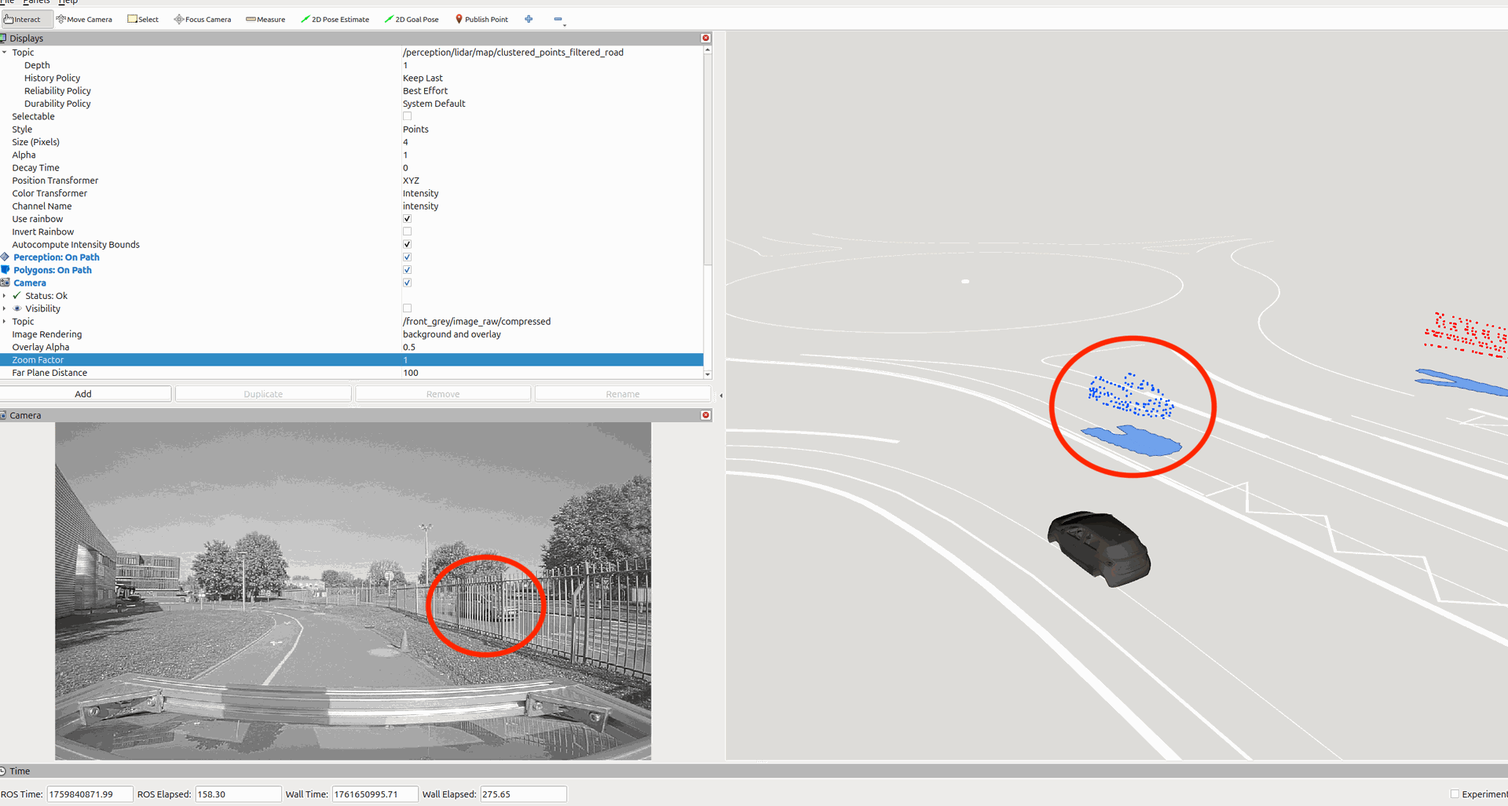
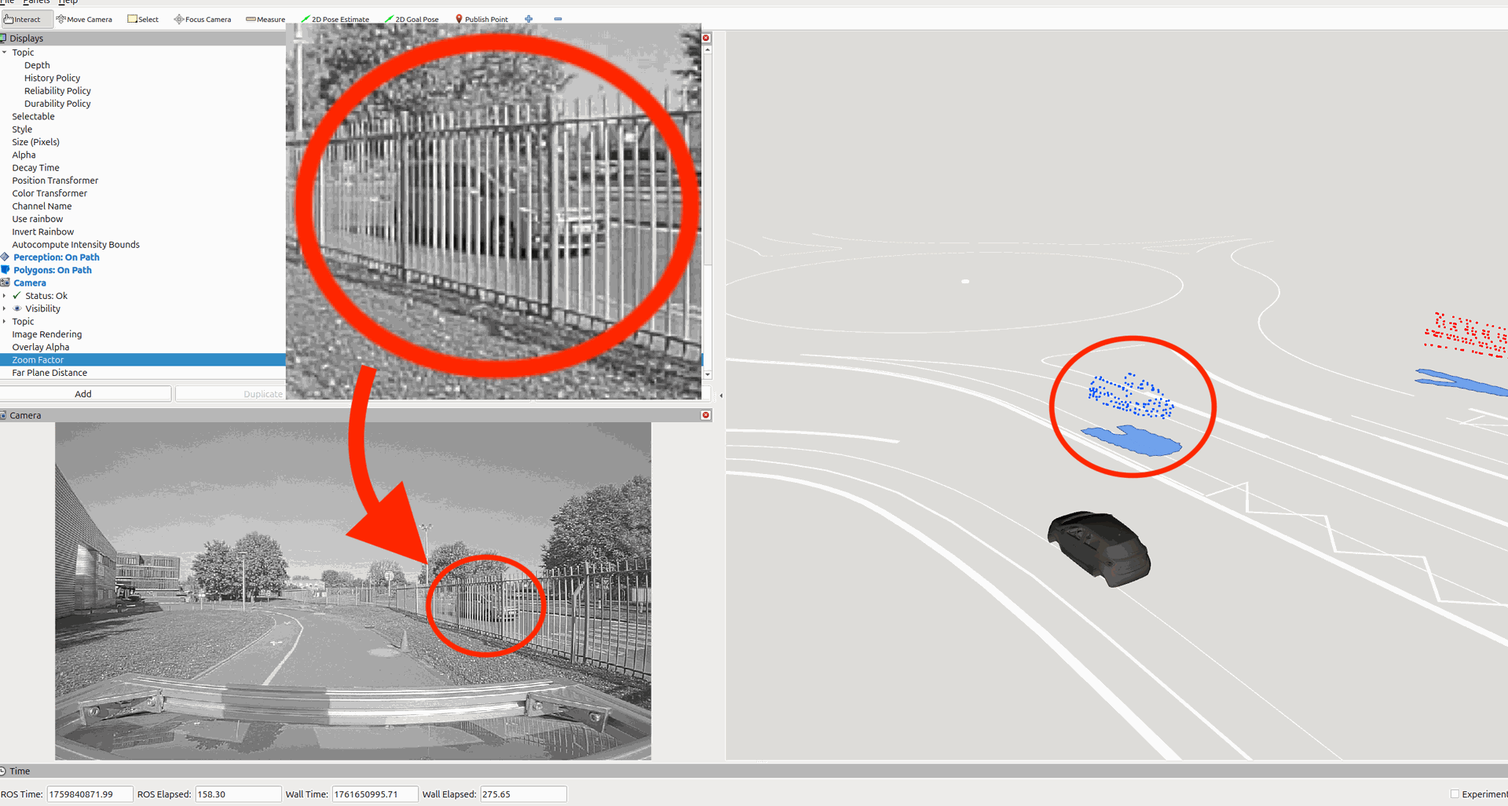
deploy: dec1e0b741afa52eaa4217c52247f01eb987975c

Changed region(s): [[0.1875, 0.0312, 0.4688, 0.7167]]

diff --git a/projects/project_human-prediction/index.html b/projects/project_human-prediction/index.html
@@ -20,9 +20,9 @@
 I = \{x_0, x_1, ..., x_n\}
 \quad \text{Eq (1)} $$</div></div></blockquote><p>Here, $(x_i) = (v_i, w_i)$ denotes the state at time $i$, where $v_i$ is the linear velocity and $w_i$ is the angular velocity.</p><figure id=fig-1><img src=https://pouceheure.github.io/blog/images/human-prediction/scheme-human_profile_prediction.drawio.png alt width=500><figcaption>Fig. 1 - Goal of the project.</figcaption></figure><p>The prediction model, $H_\Theta$, aims to produce:</p><blockquote><div class=equation-scroll-wrapper><div class=equation-block>$$
 H_\Theta(X) = \{\hat{y}_{t+1},...,\hat{y}_{t+k}\}
-\quad \text{Eq (2)} $$</div></div></blockquote><p>where</p><ul><li>$ \Theta $ are the model parameters, $ X $ is the input vector at time $ t $</li><li>$ \hat{y}_{t+i} $ is the predicted state</li><li>$ (v_{t+i}, w_{t+i}) $ are the predicted velocities</li><li>$ dt $ is the acquisition interval in seconds.</li></ul><h2 id=data-and-model>Data and Model</h2><h3 id=data-categories>Data Categories</h3><p>Input data are grouped into three categories:</p><ul><li><strong>Vehicle state</strong>: velocities, accelerations, and other dynamics.</li><li><strong>Environment state</strong>: map and Lidar data.</li><li><strong>Control state</strong>: steering angle, pedal positions.</li></ul><figure id=fig-2><img src=https://pouceheure.github.io/blog/images/human-prediction/scheme-data.drawio.png alt width=500><figcaption>Fig. 2 - Data input.</figcaption></figure><h3 id=driving-scenarios>Driving Scenarios</h3><p>Behavior varies across scenarios such as highways, city streets, and roundabouts. The dataset includes both <strong>structured</strong> (lane-marked roads) and <strong>unstructured</strong> (urban intersections, roundabouts) environments to prevent bias.</p><figure id=fig-3><img src=https://pouceheure.github.io/blog/images/human-prediction/scheme-dataset_diversification.drawio.png alt width=500><figcaption>Fig. 3 - Scenario categories.</figcaption></figure><h3 id=temporal-aspects>Temporal Aspects</h3><p>No manual labeling was required; future velocities served as output targets. The sensor acquisition rate is $dt = 100ms$ (10 Hz). A <strong>sliding window</strong> over past states captures temporal dependencies, and <strong>data augmentation</strong> (time warping, resampling) improves generalization.</p><h3 id=multi-modal-model>Multi-Modal Model</h3><p>The model consists of:</p><ol><li><strong>Input model</strong>: compresses each modality into a latent vector.</li><li><strong>Final model</strong>: concatenates latent vectors and applies a recurrent network.</li></ol><figure id=fig-4><img src=https://pouceheure.github.io/blog/images/human-prediction/scheme-data_unbalance_old.drawio.png alt width=500><figcaption>Fig. 4 - Handling unbalanced data representation.</figcaption></figure><p>The <strong>input model</strong> uses:</p><ul><li><strong>CNNs</strong> for image-based features (camera, Lidar projections).</li><li><strong>Fully connected layers</strong> for numerical data.</li></ul><p>The <strong>final model</strong> uses <strong>GRUs</strong> for sequence prediction.</p><figure id=fig-5><img src=https://pouceheure.github.io/blog/images/human-prediction/scheme-models_architecture.drawio.png alt width=800><figcaption>Fig. 5 - Overall model architecture.</figcaption></figure><h2 id=results>Results</h2><h3 id=test-characteristics>Test Characteristics</h3><div class=table-responsive><table><thead><tr><th>Test Name</th><th>Roundabouts</th><th>Intersections</th><th>Speed Limit</th><th>Distance</th><th>Time Record</th><th>Lanes</th></tr></thead><tbody><tr><td>roundabout</td><td>6</td><td>1</td><td>70 km/h</td><td>4 km</td><td>378 s</td><td>2</td></tr><tr><td>city</td><td>4</td><td>7</td><td>50 km/h</td><td>4 km</td><td>519 s</td><td>1</td></tr><tr><td>speed (1 lane)</td><td>2</td><td>0</td><td>70 km/h</td><td>2 km</td><td>116 s</td><td>1</td></tr><tr><td>speed (2 lanes)</td><td>0</td><td>0</td><td>90 km/h</td><td>2 km</td><td>84 s</td><td>2</td></tr></tbody></table></div><p>The following projections compare predicted and actual trajectories for different scenarios.</p><div class="row justify-content-center"><div class="col-md-3 col-sm-6 col-12 text-center"><figure id=fig-6.1><img src=https://pouceheure.github.io/blog/images/human-prediction/projection-prediction-test-1-lane.drawio.png alt="Test 1 Lane" class=img-fluid><figcaption class=text-muted>Fig. 6.1 - Test 1 Lane</figcaption></figure></div><div class="col-md-3 col-sm-6 col-12 text-center"><figure id=fig-6.2><img src=https://pouceheure.github.io/blog/images/human-prediction/projection-prediction-test-2-lane.drawio.png alt=" Test 2 Lanes" class=img-fluid><figcaption class=text-muted>Fig. 6.2 - Test 2 Lanes</figcaption></figure></div><div class="col-md-3 col-sm-6 col-12 text-center"><figure id=fig-6.3><img src=https://pouceheure.github.io/blog/images/human-prediction/projection-prediction-test-city.drawio.png alt=" Test City" class=img-fluid><figcaption class=text-muted>Fig. 6.3 - Test City</figcaption></figure></div><div class="col-md-3 col-sm-6 col-12 text-center"><figure id=fig-6.4><img src=https://pouceheure.github.io/blog/images/human-prediction/projection-prediction-test-roundabout.drawio.png alt=" Test Roundabout" class=img-fluid><figcaption class=text-muted>Fig. 6.4 - Test Roundabout</figcaption></figure></div></div><figure id=fig-7><img src=https://pouceheure.github.io/blog/images/human-prediction/results_mean.png alt width=500><figcaption>Fig. 7 - Mean errors.</figcaption></figure><p>The error function is:</p><blockquote><div class=equation-scroll-wrapper><div class=equation-block>$$
+\quad \text{Eq (2)} $$</div></div></blockquote><p>where</p><ul><li>$ \Theta $ are the model parameters, $ X $ is the input vector at time $ t $</li><li>$ \hat{y}_{t+i} $ is the predicted state</li><li>$ (v_{t+i}, w_{t+i}) $ are the predicted velocities</li><li>$ dt $ is the acquisition interval in seconds.</li></ul><h2 id=data-and-model>Data and Model</h2><h3 id=data-categories>Data Categories</h3><p>Input data are grouped into three categories:</p><ul><li><strong>Vehicle state</strong>: velocities, accelerations, and other dynamics.</li><li><strong>Environment state</strong>: map and Lidar data.</li><li><strong>Control state</strong>: steering angle, pedal positions.</li></ul><figure id=fig-2><img src=https://pouceheure.github.io/blog/images/human-prediction/scheme-data.drawio.png alt width=500><figcaption>Fig. 2 - Data input.</figcaption></figure><h3 id=driving-scenarios>Driving Scenarios</h3><p>Behavior varies across scenarios such as highways, city streets, and roundabouts. The dataset includes both <strong>structured</strong> (lane-marked roads) and <strong>unstructured</strong> (urban intersections, roundabouts) environments to prevent bias.</p><figure id=fig-3><img src=https://pouceheure.github.io/blog/images/human-prediction/scheme-dataset_diversification.drawio.png alt width=500><figcaption>Fig. 3 - Scenario categories.</figcaption></figure><h3 id=temporal-aspects>Temporal Aspects</h3><p>No manual labeling was required; future velocities served as output targets. The sensor acquisition rate is $dt = 100ms$ (10 Hz). A <strong>sliding window</strong> over past states captures temporal dependencies, and <strong>data augmentation</strong> (time warping, resampling) improves generalization.</p><h3 id=multi-modal-model>Multi-Modal Model</h3><p>The model consists of:</p><ol><li><strong>Input model</strong>: compresses each modality into a latent vector.</li><li><strong>Final model</strong>: concatenates latent vectors and applies a recurrent network.</li></ol><figure id=fig-4><img src=https://pouceheure.github.io/blog/images/human-prediction/scheme-data_unbalance_old.drawio.png alt width=500><figcaption>Fig. 4 - Handling unbalanced data representation.</figcaption></figure><p>The <strong>input model</strong> uses:</p><ul><li><strong>CNNs</strong> for image-based features (camera, Lidar projections).</li><li><strong>Fully connected layers</strong> for numerical data.</li></ul><p>The <strong>final model</strong> uses <strong>GRUs</strong> for sequence prediction.</p><figure id=fig-5><img src=https://pouceheure.github.io/blog/images/human-prediction/scheme-models_architecture.drawio.png alt width=800><figcaption>Fig. 5 - Overall model architecture.</figcaption></figure><h2 id=results>Results</h2><h3 id=test-characteristics>Test Characteristics</h3><div class=table-responsive><table><thead><tr><th>Test Name</th><th>Roundabouts</th><th>Intersections</th><th>Speed Limit</th><th>Distance</th><th>Time Record</th><th>Lanes</th></tr></thead><tbody><tr><td>roundabout</td><td>6</td><td>1</td><td>70 km/h</td><td>4 km</td><td>378 s</td><td>2</td></tr><tr><td>city</td><td>4</td><td>7</td><td>50 km/h</td><td>4 km</td><td>519 s</td><td>1</td></tr><tr><td>speed (1 lane)</td><td>2</td><td>0</td><td>70 km/h</td><td>2 km</td><td>116 s</td><td>1</td></tr><tr><td>speed (2 lanes)</td><td>0</td><td>0</td><td>90 km/h</td><td>2 km</td><td>84 s</td><td>2</td></tr></tbody></table></div><p>The following projections compare predicted and actual trajectories for different scenarios.</p><div class="row justify-content-center"><div class="col-md-3 col-sm-6 col-12 text-center"><figure id=fig-1.1><img src=https://pouceheure.github.io/blog/images/human-prediction/projection-prediction-test-1-lane.drawio.png alt="Test 1 Lane" class=img-fluid><figcaption class=text-muted>Fig. 1.1 - Test 1 Lane</figcaption></figure></div><div class="col-md-3 col-sm-6 col-12 text-center"><figure id=fig-1.2><img src=https://pouceheure.github.io/blog/images/human-prediction/projection-prediction-test-2-lane.drawio.png alt=" Test 2 Lanes" class=img-fluid><figcaption class=text-muted>Fig. 1.2 - Test 2 Lanes</figcaption></figure></div><div class="col-md-3 col-sm-6 col-12 text-center"><figure id=fig-1.3><img src=https://pouceheure.github.io/blog/images/human-prediction/projection-prediction-test-city.drawio.png alt=" Test City" class=img-fluid><figcaption class=text-muted>Fig. 1.3 - Test City</figcaption></figure></div><div class="col-md-3 col-sm-6 col-12 text-center"><figure id=fig-1.4><img src=https://pouceheure.github.io/blog/images/human-prediction/projection-prediction-test-roundabout.drawio.png alt=" Test Roundabout" class=img-fluid><figcaption class=text-muted>Fig. 1.4 - Test Roundabout</figcaption></figure></div></div><figure id=fig-2><img src=https://pouceheure.github.io/blog/images/human-prediction/results_mean.png alt width=500><figcaption>Fig. 2 - Mean errors.</figcaption></figure><p>The error function is:</p><blockquote><div class=equation-scroll-wrapper><div class=equation-block>$$
 loss(y_{predict},y_{true}) = w_{v} \cdot \sum_{i=0}^{n} | y_{predict,v,i} - y_{true,v,i} | + w_{w} \cdot \sum_{i=0}^{n} | y_{predict,w,i} - y_{true,w,i} |
-\quad \text{Eq (3)} $$</div></div></blockquote><p>Where:</p><ul><li>$w_v$ is the weight for linear velocity error.</li><li>$w_w$ is the weight for angular velocity error.</li></ul><h3 id=example-city-test>Example: City Test</h3><div class="row justify-content-center"><div class="col-md-6 col-sm-6 col-12 text-center"><figure id=fig-8.1><img src=https://pouceheure.github.io/blog/images/human-prediction/scheme-model_city_results_linear.drawio.png alt="Predicted linear velocity" class=img-fluid><figcaption class=text-muted>Fig. 8.1 - Predicted linear velocity</figcaption></figure></div><div class="col-md-6 col-sm-6 col-12 text-center"><figure id=fig-8.2><img src=https://pouceheure.github.io/blog/images/human-prediction/scheme-model_city_results_angular.drawio.png alt=" Predicted angular velocity in city scenario" class=img-fluid><figcaption class=text-muted>Fig. 8.2 - Predicted angular velocity in city scenario</figcaption></figure></div></div><h3 id=sensitivity-analysis>Sensitivity Analysis</h3><p>The impact of each input was measured by neutralizing it and observing the change in error. This shows which inputs most influence predictions.</p><p><figure id=fig-9><img src=https://pouceheure.github.io/blog/images/human-prediction/scheme-model_sensitivity_motivation.drawio.png alt width=400><figcaption>Fig. 9 - Sensitivity analysis motivation.</figcaption></figure><figure id=fig-10><img src=https://pouceheure.github.io/blog/images/human-prediction/scheme-blind.drawio.png alt width=600><figcaption>Fig. 10 - Effect of blind spots.</figcaption></figure><figure id=fig-11><img src=https://pouceheure.github.io/blog/images/human-prediction/scheme-result_v2.drawio.png alt width=800><figcaption>Fig. 11 - Sensitivity analysis results.</figcaption></figure></p><h2 id=references>References</h2><ul><li id=ref-PredictionHPousseur class=citation style=margin-bottom:1em><strong>Prediction of human driving behavior using deep learning: a recurrent learning structure</strong><br><span style=color:#555>Hugo Pousseur, Alessandro Correa Victorino</span><br><em>IEEE ITSC 2022</em><br><a href=https://hal.science/hal-04041186v1/document target=_blank style=font-size:90%;color:#1e88e5>[Access PDF]</a></li></ul></div><br><br></article></div><script src=https://pouceheure.github.io/blog/js/highlight-toc.js></script><script src=https://pouceheure.github.io/blog/js/select-toc-part.js></script><script src=https://pouceheure.github.io/blog/js/select-video.js></script></main><div class="modal fade" id=contactModal tabindex=-1 aria-labelledby=contactModalLabel aria-hidden=true><div class="modal-dialog modal-dialog-centered"><div class=modal-content><div class=modal-header><h5 class=modal-title id=contactModalLabel>Contact me</h5><button type=button class=btn-close data-bs-dismiss=modal aria-label=Close></button></div><div class=modal-body><p class=mb-2>Send me email with subject starting by [contact-web]. Email address: click on reveal (avoid bot scrapping).</p><code id=email data-noise=~ data-email="=02~bj5~Cbp~FWb~nBk~c1V~2cz~V3b~w5y~bnV~Ha">=02~bj5~Cbp~FWb~nBk~c1V~2cz~V3b~w5y~bnV~Ha</code><div class=visually-hidden aria-live=polite id=emailLive></div></div><div class=modal-footer><button id=revealEmailBtn class="btn btn-primary">
+\quad \text{Eq (1)} $$</div></div></blockquote><p>Where:</p><ul><li>$w_v$ is the weight for linear velocity error.</li><li>$w_w$ is the weight for angular velocity error.</li></ul><h3 id=example-city-test>Example: City Test</h3><div class="row justify-content-center"><div class="col-md-6 col-sm-6 col-12 text-center"><figure id=fig-3.1><img src=https://pouceheure.github.io/blog/images/human-prediction/scheme-model_city_results_linear.drawio.png alt="Predicted linear velocity" class=img-fluid><figcaption class=text-muted>Fig. 3.1 - Predicted linear velocity</figcaption></figure></div><div class="col-md-6 col-sm-6 col-12 text-center"><figure id=fig-3.2><img src=https://pouceheure.github.io/blog/images/human-prediction/scheme-model_city_results_angular.drawio.png alt=" Predicted angular velocity in city scenario" class=img-fluid><figcaption class=text-muted>Fig. 3.2 - Predicted angular velocity in city scenario</figcaption></figure></div></div><h3 id=sensitivity-analysis>Sensitivity Analysis</h3><p>The impact of each input was measured by neutralizing it and observing the change in error. This shows which inputs most influence predictions.</p><p><figure id=fig-4><img src=https://pouceheure.github.io/blog/images/human-prediction/scheme-model_sensitivity_motivation.drawio.png alt width=400><figcaption>Fig. 4 - Sensitivity analysis motivation.</figcaption></figure><figure id=fig-5><img src=https://pouceheure.github.io/blog/images/human-prediction/scheme-blind.drawio.png alt width=600><figcaption>Fig. 5 - Effect of blind spots.</figcaption></figure><figure id=fig-6><img src=https://pouceheure.github.io/blog/images/human-prediction/scheme-result_v2.drawio.png alt width=800><figcaption>Fig. 6 - Sensitivity analysis results.</figcaption></figure></p><h2 id=references>References</h2><ul><li id=ref-PredictionHPousseur class=citation style=margin-bottom:1em><strong>Prediction of human driving behavior using deep learning: a recurrent learning structure</strong><br><span style=color:#555>Hugo Pousseur, Alessandro Correa Victorino</span><br><em>IEEE ITSC 2022</em><br><a href=https://hal.science/hal-04041186v1/document target=_blank style=font-size:90%;color:#1e88e5>[Access PDF]</a></li></ul></div><br><br></article></div><script src=https://pouceheure.github.io/blog/js/highlight-toc.js></script><script src=https://pouceheure.github.io/blog/js/select-toc-part.js></script><script src=https://pouceheure.github.io/blog/js/select-video.js></script></main><div class="modal fade" id=contactModal tabindex=-1 aria-labelledby=contactModalLabel aria-hidden=true><div class="modal-dialog modal-dialog-centered"><div class=modal-content><div class=modal-header><h5 class=modal-title id=contactModalLabel>Contact me</h5><button type=button class=btn-close data-bs-dismiss=modal aria-label=Close></button></div><div class=modal-body><p class=mb-2>Send me email with subject starting by [contact-web]. Email address: click on reveal (avoid bot scrapping).</p><code id=email data-noise=~ data-email="=02~bj5~Cbp~FWb~nBk~c1V~2cz~V3b~w5y~bnV~Ha">=02~bj5~Cbp~FWb~nBk~c1V~2cz~V3b~w5y~bnV~Ha</code><div class=visually-hidden aria-live=polite id=emailLive></div></div><div class=modal-footer><button id=revealEmailBtn class="btn btn-primary">
 Reveal Email
 </button>
 <button type=button class="btn btn-secondary" data-bs-dismiss=modal>

diff --git a/projects/project_autosys_lidar_and_decision/index.html b/projects/project_autosys_lidar_and_decision/index.html
@@ -17,15 +17,15 @@
 and
 <a href=#fig-2>Fig. 2</a>
 illustrate how the critical zone adapts depending on the path geometry and the road rules.
-In practice, the critical zone must adapt to the right-of-way rules and the type of road element (e.g., stop sign, intersection, roundabout). This prevents defining an overly strict critical zone that would unnecessarily block the vehicle’s progress.</p><p>Legend:</p><ul><li><strong>Red lines</strong>: represent critical zone lines from the map;</li><li><strong>Blue polygones</strong>: represent polygones from the critical zone lines, used for filtering;</li></ul><h2 id=detection>Detection</h2><p>The perception stack relies on a <strong>geometric LiDAR-based approach</strong>.<br>Unlike deep-learning methods, this pipeline is deterministic and explainable — every detection can be interpreted and justified.</p><p>Starting from a raw LiDAR point cloud (<code>PCL2</code>), the system identifies a set of obstacles (<code>Perceptions[]</code>) represented by ground-projected polygons.<br>These obstacles can influence the vehicle’s motion when:</p><ul><li>An object lies on the planned driving path;</li><li>An object is within a defined critical zone.</li></ul><blockquote><p>Note: The adaptive control is performed by the perception + the signal obstacle created by the motion manger</p></blockquote><div class=refer-box><i class="bi bi-book"></i> For more details, refer to the <strong>Motion Profile Generation</strong> section of <a href=https://pouceheure.github.io/blog/projects/project_autosys_local-planning/#motion-profile-generation>Planning Project</a>.</div><h3 id=pipeline>Pipeline</h3><p>To filter obstacles along the path or within critical zones, the pipeline generates <code>Perceptions[]</code> objects aligned with the map frame.<br>From these, filtered subsets are computed depending on the driving context.</p><h4 id=main>Main</h4><table><thead><tr><th>Step</th><th>I/O : type (frameid)</th><th>Description</th></tr></thead><tbody><tr><td><strong>1. Point Filtering</strong></td><td><code>PCL2 (lidar)</code> → <code>PCL2 (lidar)</code></td><td>Filters raw LiDAR points by height (<code>z_min</code>, <code>z_max</code>) and range limits to remove ground or distant noise.</td></tr><tr><td><strong>2. Voxel Downsampling</strong></td><td><code>PCL2 (lidar)</code> → <code>PCL2 (lidar)</code></td><td>Reduces cloud density using voxel grid filtering for faster processing.</td></tr><tr><td><strong>3. Clustering (Voxel-based)</strong></td><td><code>PCL2 (lidar)</code> → <code>PCL2 (lidar)</code></td><td>Groups nearby points using voxel-based connected components in 2D/3D space, efficient and stable segmentation.</td></tr><tr><td><strong>4. Cluster Filtering</strong></td><td><code>PCL2 (lidar)</code> → <code>PCL2 (lidar)</code></td><td>Removes clusters below size or height thresholds to discard irrelevant objects.</td></tr><tr><td><strong>5. TF Transform (Clusters)</strong></td><td><code>PCL2 (lidar)</code> → <code>PCL2 (map)</code></td><td>Transforms clustered points to the <code>map</code> frame for spatial consistency.</td></tr><tr><td><strong>6. Road Polygon Filtering</strong></td><td><code>PCL2 (map)</code> → <code>PCL2 (map)</code></td><td>Keeps only clusters overlapping with the road polygons from the map.</td></tr><tr><td><strong>7. Cluster → Perceptions</strong></td><td><code>PCL2 (map)</code> → <code>Perceptions[] (map)</code></td><td>Converts clusters into perception objects with bounding boxes and 2D footprints.</td></tr><tr><td><strong>8. Perception Filtering</strong></td><td><code>Perceptions[] (map)</code> → <code>Perceptions[] (map)</code></td><td>Filters perceptions by area or geometry constraints to retain valid obstacles.</td></tr></tbody></table><h4 id=main--on-path>Main + On Path</h4><table><thead><tr><th>Step</th><th>I/O type (frameid)</th><th>Description</th></tr></thead><tbody><tr><td><strong>9. Path → Polygons (Local)</strong></td><td><code>Path (map)</code> → <code>Polygons[] (map)</code></td><td>Generates polygons around the navigation path for footprint validation and filtering.</td></tr><tr><td><strong>10. Perceptions on Path Filter</strong></td><td><code>Perceptions[] (map)</code> + <code>Polygons[] (map)</code> → <code>Perceptions[] (map)</code></td><td>Keeps only perceptions intersecting the drivable corridor, focusing on relevant obstacles.</td></tr></tbody></table><h4 id=main---on-critical-zone>Main + On Critical Zone</h4><table><thead><tr><th>Step</th><th>I/O type (frameid)</th><th>Description</th></tr></thead><tbody><tr><td><strong>9. Critical Zone Polygons</strong></td><td><code>Map (map)</code> → <code>Polygons[] (map)</code></td><td>Converts the map-defined critical zone into polygons used for decision-making.</td></tr><tr><td><strong>10. Perceptions in Critical Zone Filter</strong></td><td><code>Perceptions[] (map)</code> + <code>Polygons[] (map)</code> → <code>Perceptions[] (map)</code></td><td>Keeps only perceptions located inside critical zones for safety evaluation.</td></tr></tbody></table><h2 id=example-on-real-data>Example on Real Data</h2><figure id=fig-3><img src=https://pouceheure.github.io/blog/images/decision/lidar_detection.png alt width=800><figcaption>Fig. 3 - Perception LiDAR on real data, case: Roundabout</figcaption></figure><p>The
+In practice, the critical zone must adapt to the right-of-way rules and the type of road element (e.g., stop sign, intersection, roundabout). This prevents defining an overly strict critical zone that would unnecessarily block the vehicle’s progress.</p><blockquote><p>Legend:</p><ul><li><strong>Red lines</strong>: represent critical zone lines from the map;</li><li><strong>Blue polygones</strong>: represent polygones from the critical zone lines, used for filtering;</li></ul></blockquote><h2 id=detection>Detection</h2><p>The perception stack relies on a <strong>geometric LiDAR-based approach</strong>.<br>Unlike deep-learning methods, this pipeline is deterministic and explainable, every detection can be interpreted and justified.</p><p>Starting from a raw LiDAR point cloud (<code>PCL2</code>), the system identifies a set of obstacles (<code>Perceptions[]</code>) represented by ground-projected polygons.<br>These obstacles can influence the vehicle’s motion when:</p><ul><li>An object lies on the planned driving path;</li><li>An object is within a defined critical zone.</li></ul><blockquote><p>Note: The adaptive control is performed by the perception + the signal obstacle created by the motion manger</p></blockquote><div class=refer-box><i class="bi bi-book"></i> For more details, refer to the <strong>Motion Profile Generation</strong> section of <a href=https://pouceheure.github.io/blog/projects/project_autosys_local-planning/#motion-profile-generation>Planning Project</a>.</div><h3 id=pipeline>Pipeline</h3><p>To filter obstacles along the path or within critical zones, the pipeline generates <code>Perceptions[]</code> objects aligned with the map frame.<br>From these, filtered subsets are computed depending on the driving context.</p><h4 id=main>Main</h4><table><thead><tr><th>Step</th><th>I/O : type (frameid)</th><th>Description</th></tr></thead><tbody><tr><td><strong>1. Point Filtering</strong></td><td><code>PCL2 (lidar)</code> → <code>PCL2 (lidar)</code></td><td>Filters raw LiDAR points by height (<code>z_min</code>, <code>z_max</code>) and range limits to remove ground or distant noise.</td></tr><tr><td><strong>2. Voxel Downsampling</strong></td><td><code>PCL2 (lidar)</code> → <code>PCL2 (lidar)</code></td><td>Reduces cloud density using voxel grid filtering for faster processing.</td></tr><tr><td><strong>3. Clustering (Voxel-based)</strong></td><td><code>PCL2 (lidar)</code> → <code>PCL2 (lidar)</code></td><td>Groups nearby points using voxel-based connected components in 2D/3D space, efficient and stable segmentation.</td></tr><tr><td><strong>4. Cluster Filtering</strong></td><td><code>PCL2 (lidar)</code> → <code>PCL2 (lidar)</code></td><td>Removes clusters below size or height thresholds to discard irrelevant objects.</td></tr><tr><td><strong>5. TF Transform (Clusters)</strong></td><td><code>PCL2 (lidar)</code> → <code>PCL2 (map)</code></td><td>Transforms clustered points to the <code>map</code> frame for spatial consistency.</td></tr><tr><td><strong>6. Road Polygon Filtering</strong></td><td><code>PCL2 (map)</code> → <code>PCL2 (map)</code></td><td>Keeps only clusters overlapping with the road polygons from the map.</td></tr><tr><td><strong>7. Cluster → Perceptions</strong></td><td><code>PCL2 (map)</code> → <code>Perceptions[] (map)</code></td><td>Converts clusters into perception objects with bounding boxes and 2D footprints.</td></tr><tr><td><strong>8. Perception Filtering</strong></td><td><code>Perceptions[] (map)</code> → <code>Perceptions[] (map)</code></td><td>Filters perceptions by area or geometry constraints to retain valid obstacles.</td></tr></tbody></table><h4 id=main--on-path>Main + On Path</h4><table><thead><tr><th>Step</th><th>I/O type (frameid)</th><th>Description</th></tr></thead><tbody><tr><td><strong>9. Path → Polygons (Local)</strong></td><td><code>Path (map)</code> → <code>Polygons[] (map)</code></td><td>Generates polygons around the navigation path for footprint validation and filtering.</td></tr><tr><td><strong>10. Perceptions on Path Filter</strong></td><td><code>Perceptions[] (map)</code> + <code>Polygons[] (map)</code> → <code>Perceptions[] (map)</code></td><td>Keeps only perceptions intersecting the drivable corridor, focusing on relevant obstacles.</td></tr></tbody></table><h4 id=main---on-critical-zone>Main + On Critical Zone</h4><table><thead><tr><th>Step</th><th>I/O type (frameid)</th><th>Description</th></tr></thead><tbody><tr><td><strong>9. Critical Zone Polygons</strong></td><td><code>Map (map)</code> → <code>Polygons[] (map)</code></td><td>Converts the map-defined critical zone into polygons used for decision-making.</td></tr><tr><td><strong>10. Perceptions in Critical Zone Filter</strong></td><td><code>Perceptions[] (map)</code> + <code>Polygons[] (map)</code> → <code>Perceptions[] (map)</code></td><td>Keeps only perceptions located inside critical zones for safety evaluation.</td></tr></tbody></table><h2 id=example-on-real-data>Example on Real Data</h2><figure id=fig-3><img src=https://pouceheure.github.io/blog/images/decision/lidar_detection.png alt width=800><figcaption>Fig. 3 - Perception LiDAR on real data, case: Roundabout</figcaption></figure><p>The
 <a href=#fig-3>Fig. 3</a>
-illustrates a real-data example.<br>On the left is the camera image showing the driving situation. Note that the camera is <strong>not used</strong> for detection.<br>On the right, the RViz visualization displays the LiDAR-based perception results.</p><p>Legend:</p><ul><li><strong>Green lane:</strong> Polygon of the planned path the vehicle will follow.</li><li><strong>Orange lane:</strong> Polygon representing the critical zone.</li><li><strong>Red dots + blue polygon (right):</strong> A cluster detected by the pipeline, close to the map area but ignored after path and critical-zone filtering.</li><li><strong>Green dots + orange shape + blue polygon:</strong> The detected vehicle obstacle located within the critical zone. The orange overlay indicates that this object lies inside the critical zone.</li></ul><figure id=fig-4><img src=https://pouceheure.github.io/blog/images/decision/lidar_front_gi.png alt width=800><figcaption>Fig. 4 - Perception LiDAR on real data, case: Front Building.</figcaption></figure><figure id=fig-5><img src=https://pouceheure.github.io/blog/images/decision/lidar_parking_gi.png alt width=800><figcaption>Fig. 5 - Perception LiDAR on real data, case: Parking.</figcaption></figure><p>The
+illustrates a real-data example.<br>On the left is the camera image showing the driving situation. Note that the camera is <strong>not used</strong> for detection.<br>On the right, the RViz visualization displays the LiDAR-based perception results.</p><blockquote><p>Legend:</p><ul><li><strong>Green lane:</strong> Polygon of the planned path the vehicle will follow.</li><li><strong>Orange lane:</strong> Polygon representing the critical zone.</li><li><strong>Red dots + blue polygon (right):</strong> A cluster detected by the pipeline, close to the map area but ignored after path and critical-zone filtering.</li><li><strong>Green dots + orange shape + blue polygon:</strong> The detected vehicle obstacle located within >the critical zone. The orange overlay indicates that this object lies inside the critical zone.</li></ul></blockquote><figure id=fig-4><img src=https://pouceheure.github.io/blog/images/decision/lidar_front_gi.png alt width=800><figcaption>Fig. 4 - Perception LiDAR on real data, case: Front Building.</figcaption></figure><figure id=fig-5><img src=https://pouceheure.github.io/blog/images/decision/lidar_parking_gi.png alt width=800><figcaption>Fig. 5 - Perception LiDAR on real data, case: Parking.</figcaption></figure><p>The
 <a href=#fig-4>Fig. 4</a>
 ,
 <a href=#fig-5>Fig. 5</a>
 show different detections examples in different situations.</p><figure id=fig-6><img src=https://pouceheure.github.io/blog/images/decision/lidar_cross_guard.png alt width=800><figcaption>Fig. 6 - Perception LiDAR on real data, case: Through The Barrier</figcaption></figure><p>The
 <a href=#fig-6>Fig. 6</a>
-shows an example where the pipeline detection can detect a vehicle through the barrier between the ego vehicle and the vehicle detected.</p></div><br><br></article></div><script src=https://pouceheure.github.io/blog/js/highlight-toc.js></script><script src=https://pouceheure.github.io/blog/js/select-toc-part.js></script><script src=https://pouceheure.github.io/blog/js/select-video.js></script></main><div class="modal fade" id=contactModal tabindex=-1 aria-labelledby=contactModalLabel aria-hidden=true><div class="modal-dialog modal-dialog-centered"><div class=modal-content><div class=modal-header><h5 class=modal-title id=contactModalLabel>Contact me</h5><button type=button class=btn-close data-bs-dismiss=modal aria-label=Close></button></div><div class=modal-body><p class=mb-2>Send me email with subject starting by [contact-web]. Email address: click on reveal (avoid bot scrapping).</p><code id=email data-noise=~ data-email="=02~bj5~Cbp~FWb~nBk~c1V~2cz~V3b~w5y~bnV~Ha">=02~bj5~Cbp~FWb~nBk~c1V~2cz~V3b~w5y~bnV~Ha</code><div class=visually-hidden aria-live=polite id=emailLive></div></div><div class=modal-footer><button id=revealEmailBtn class="btn btn-primary">
+shows an example where the pipeline detection can detect a vehicle through the barrier between the ego vehicle and the vehicle detected. The red circle shows the vehicle in the image frame and RViZ display.</p></div><br><br></article></div><script src=https://pouceheure.github.io/blog/js/highlight-toc.js></script><script src=https://pouceheure.github.io/blog/js/select-toc-part.js></script><script src=https://pouceheure.github.io/blog/js/select-video.js></script></main><div class="modal fade" id=contactModal tabindex=-1 aria-labelledby=contactModalLabel aria-hidden=true><div class="modal-dialog modal-dialog-centered"><div class=modal-content><div class=modal-header><h5 class=modal-title id=contactModalLabel>Contact me</h5><button type=button class=btn-close data-bs-dismiss=modal aria-label=Close></button></div><div class=modal-body><p class=mb-2>Send me email with subject starting by [contact-web]. Email address: click on reveal (avoid bot scrapping).</p><code id=email data-noise=~ data-email="=02~bj5~Cbp~FWb~nBk~c1V~2cz~V3b~w5y~bnV~Ha">=02~bj5~Cbp~FWb~nBk~c1V~2cz~V3b~w5y~bnV~Ha</code><div class=visually-hidden aria-live=polite id=emailLive></div></div><div class=modal-footer><button id=revealEmailBtn class="btn btn-primary">
 Reveal Email
 </button>
 <button type=button class="btn btn-secondary" data-bs-dismiss=modal>
